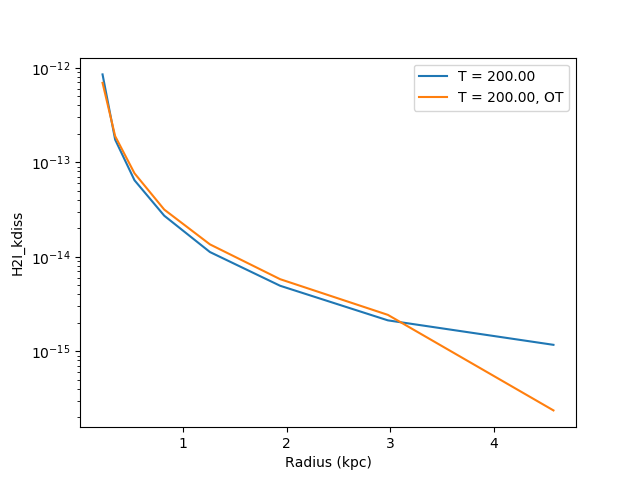
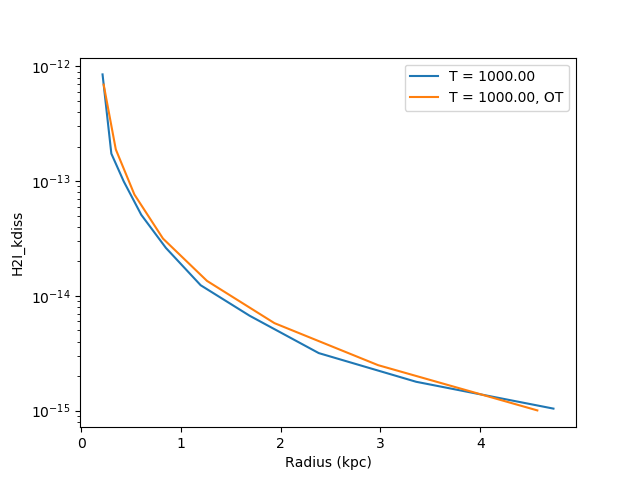
updating test parameters
--HG--
branch : week-of-code

diff --git a/run/RadiationTransport/PhotonTestMultiFrequency/radialbins.py b/run/RadiationTransport/PhotonTestMultiFrequency/radialbins.py
@@ -25,14 +25,14 @@ for elem in Fields:
     YFields.append(elem)
 
 print("Yfields = ", YFields)
-outputs = [20]
+outputs = [10]
 
 for outp in outputs:
     amrfile = "DD%4.4d/data%4.4d" % (outp, outp)
     print("Load file %s" % (amrfile))
     ds = yt.load(amrfile)
     sphere = ds.h.sphere(center, (250, 'kpc'))
-    rp = yt.create_profile(sphere, 'radius',  YFields, n_bins=8,
+    rp = yt.create_profile(sphere, 'radius',  YFields, n_bins=10,
                            units = {'radius': 'kpc', 'HM_kph' : '1/s',
                                     'HI_kph' : '1/s','H2I_kdiss' : '1/s',
                                     'H2II_kdiss' : '1/s',
